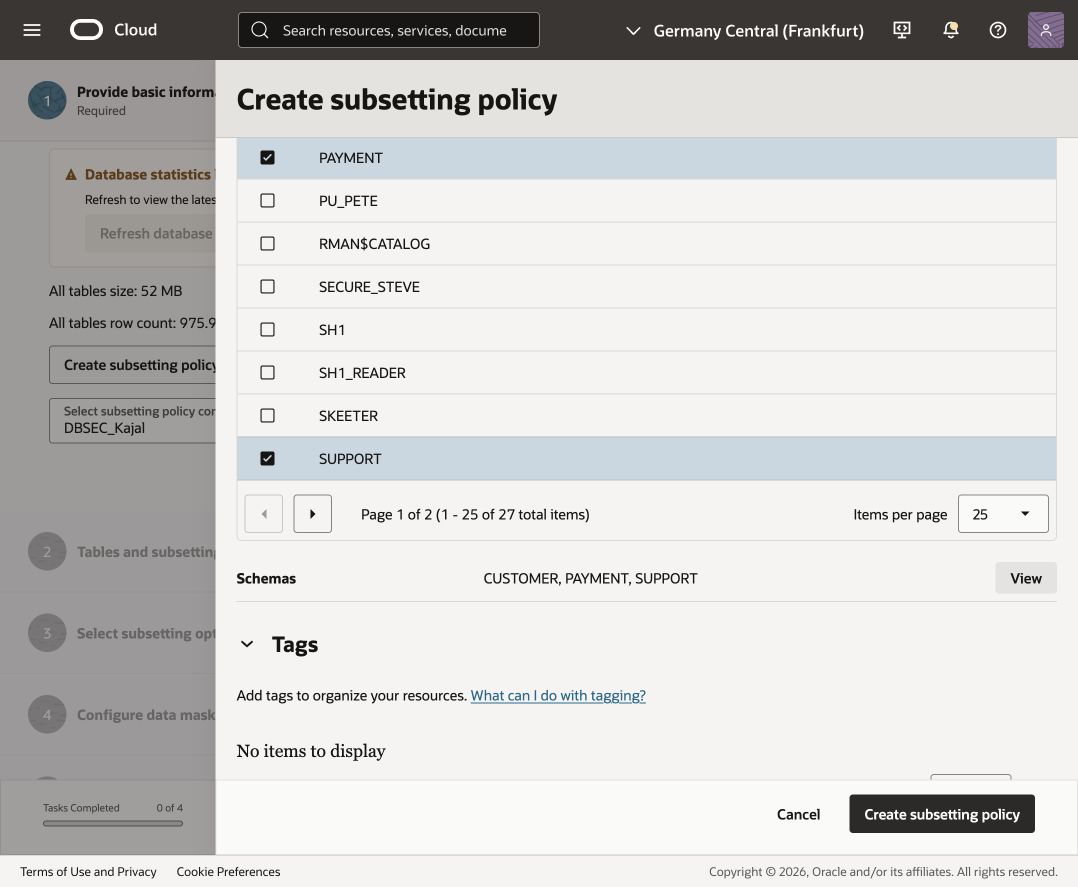
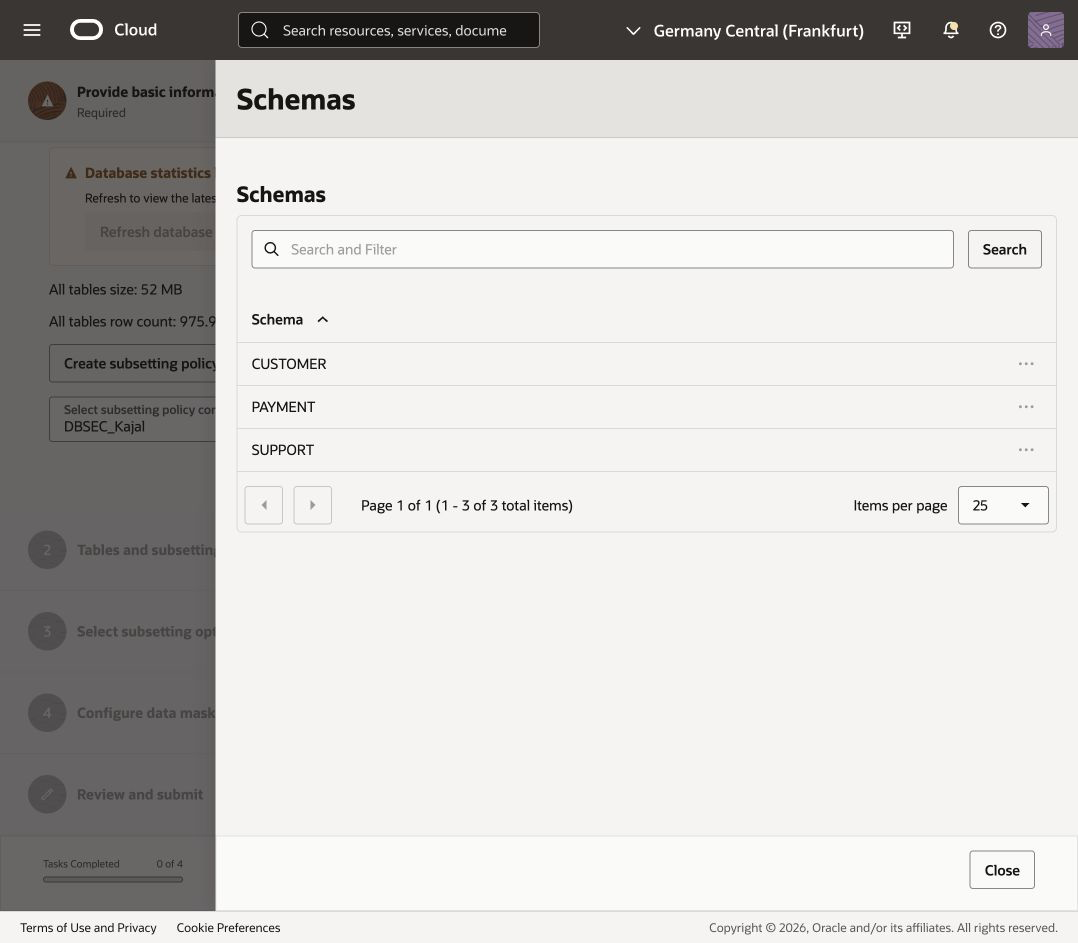
Align subsetting lab with SDM model

diff --git a/data-safe/subset-data/subset-data-2026.md b/data-safe/subset-data/subset-data-2026.md
@@ -67,7 +67,7 @@ WHERE ORDER_DATE >= DATE '2026-01-01';
 2. Give the policy a descriptive name such as `Subset_SDM_CPS_2026_2026`.
 3. Add a description such as `Recent 2026 customer transaction data for application testing`.
 4. Select **Get schemas from sensitive data model**.
-5. In the sensitive data model compartment, select the model created in the Data Discovery lab, such as `SDM1`.
+5. In the sensitive data model compartment, select the model created in the Data Discovery lab, such as `SDM_mainLL` in the reference environment.
 6. Confirm that the model brings in the `CUSTOMER`, `PAYMENT`, and `SUPPORT` schemas automatically. Do not manually select the schemas in this flow.
 7. Select **Create subsetting policy** and wait for the policy to be available in the **Subset database** workflow.
 
